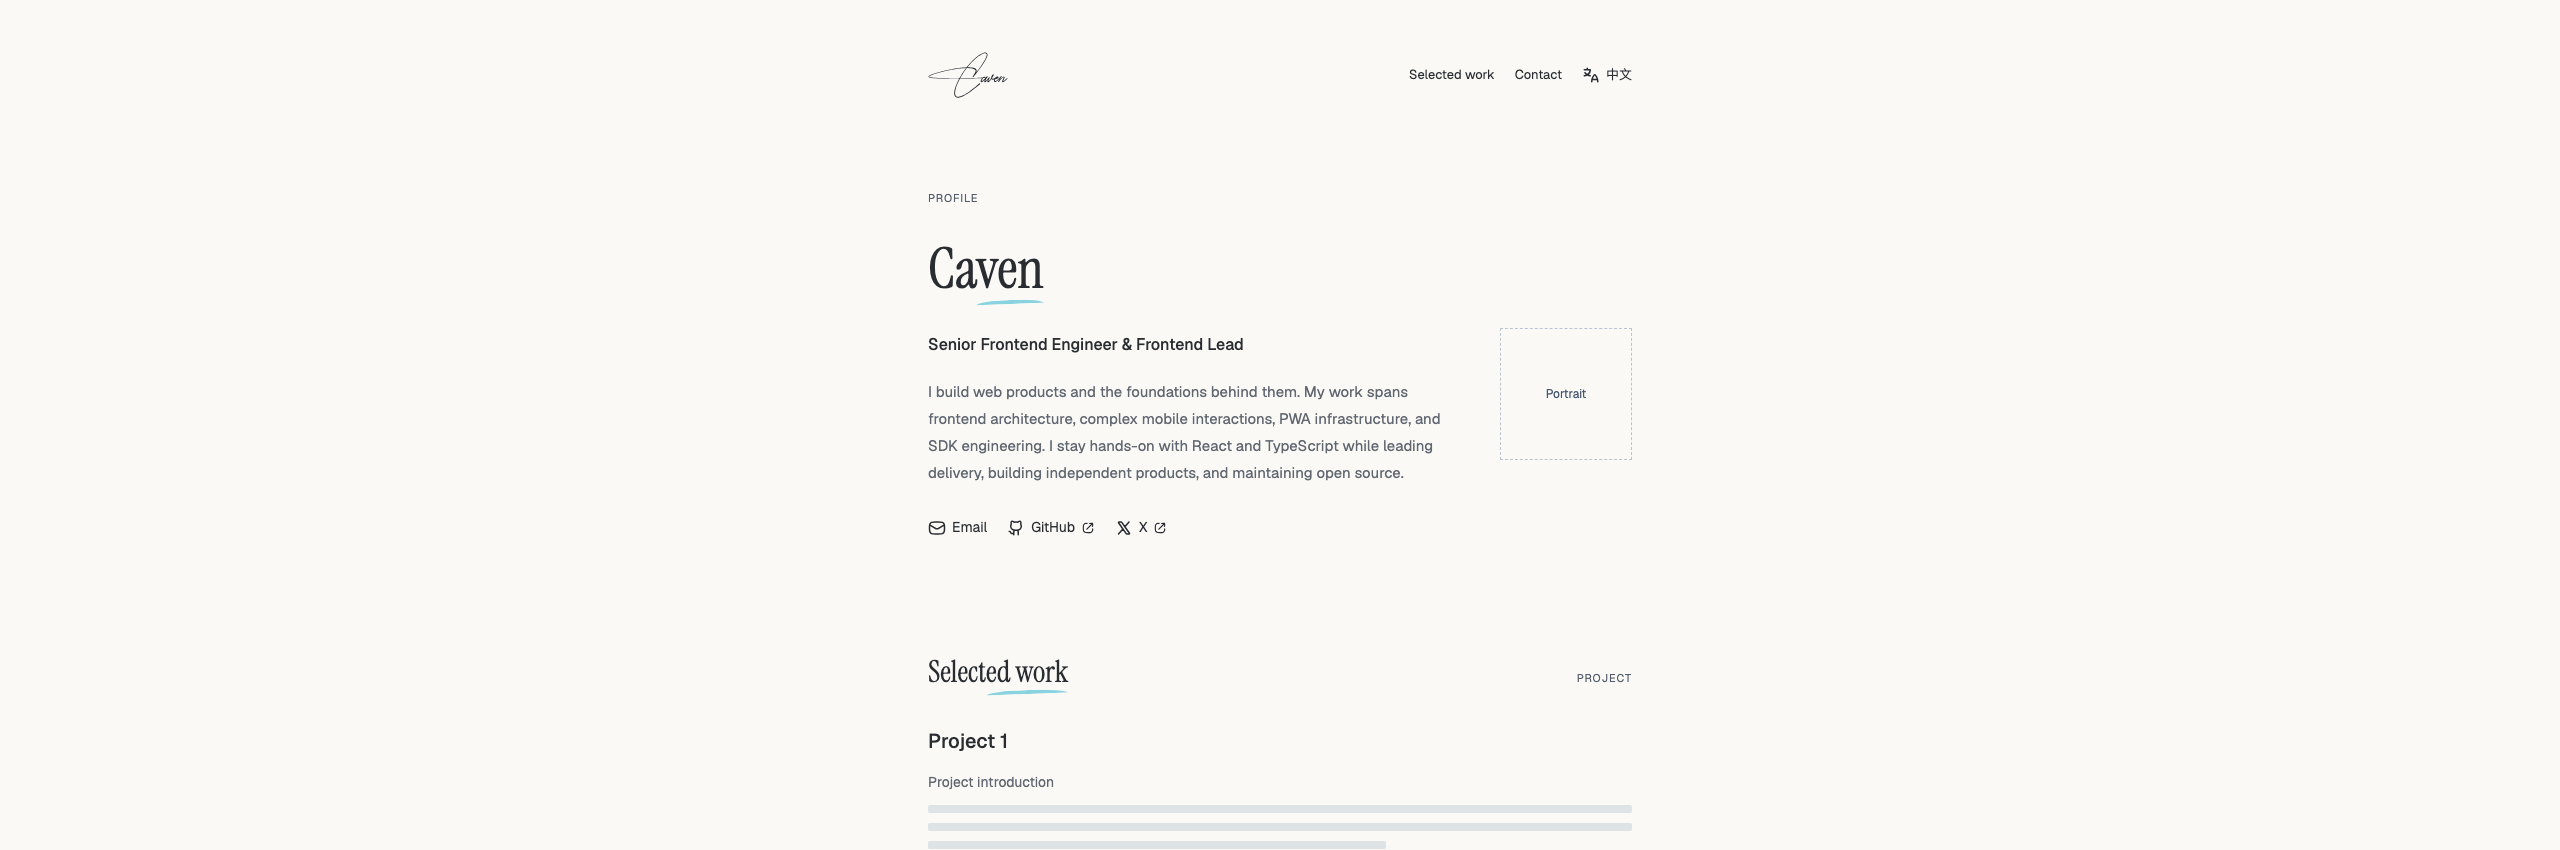
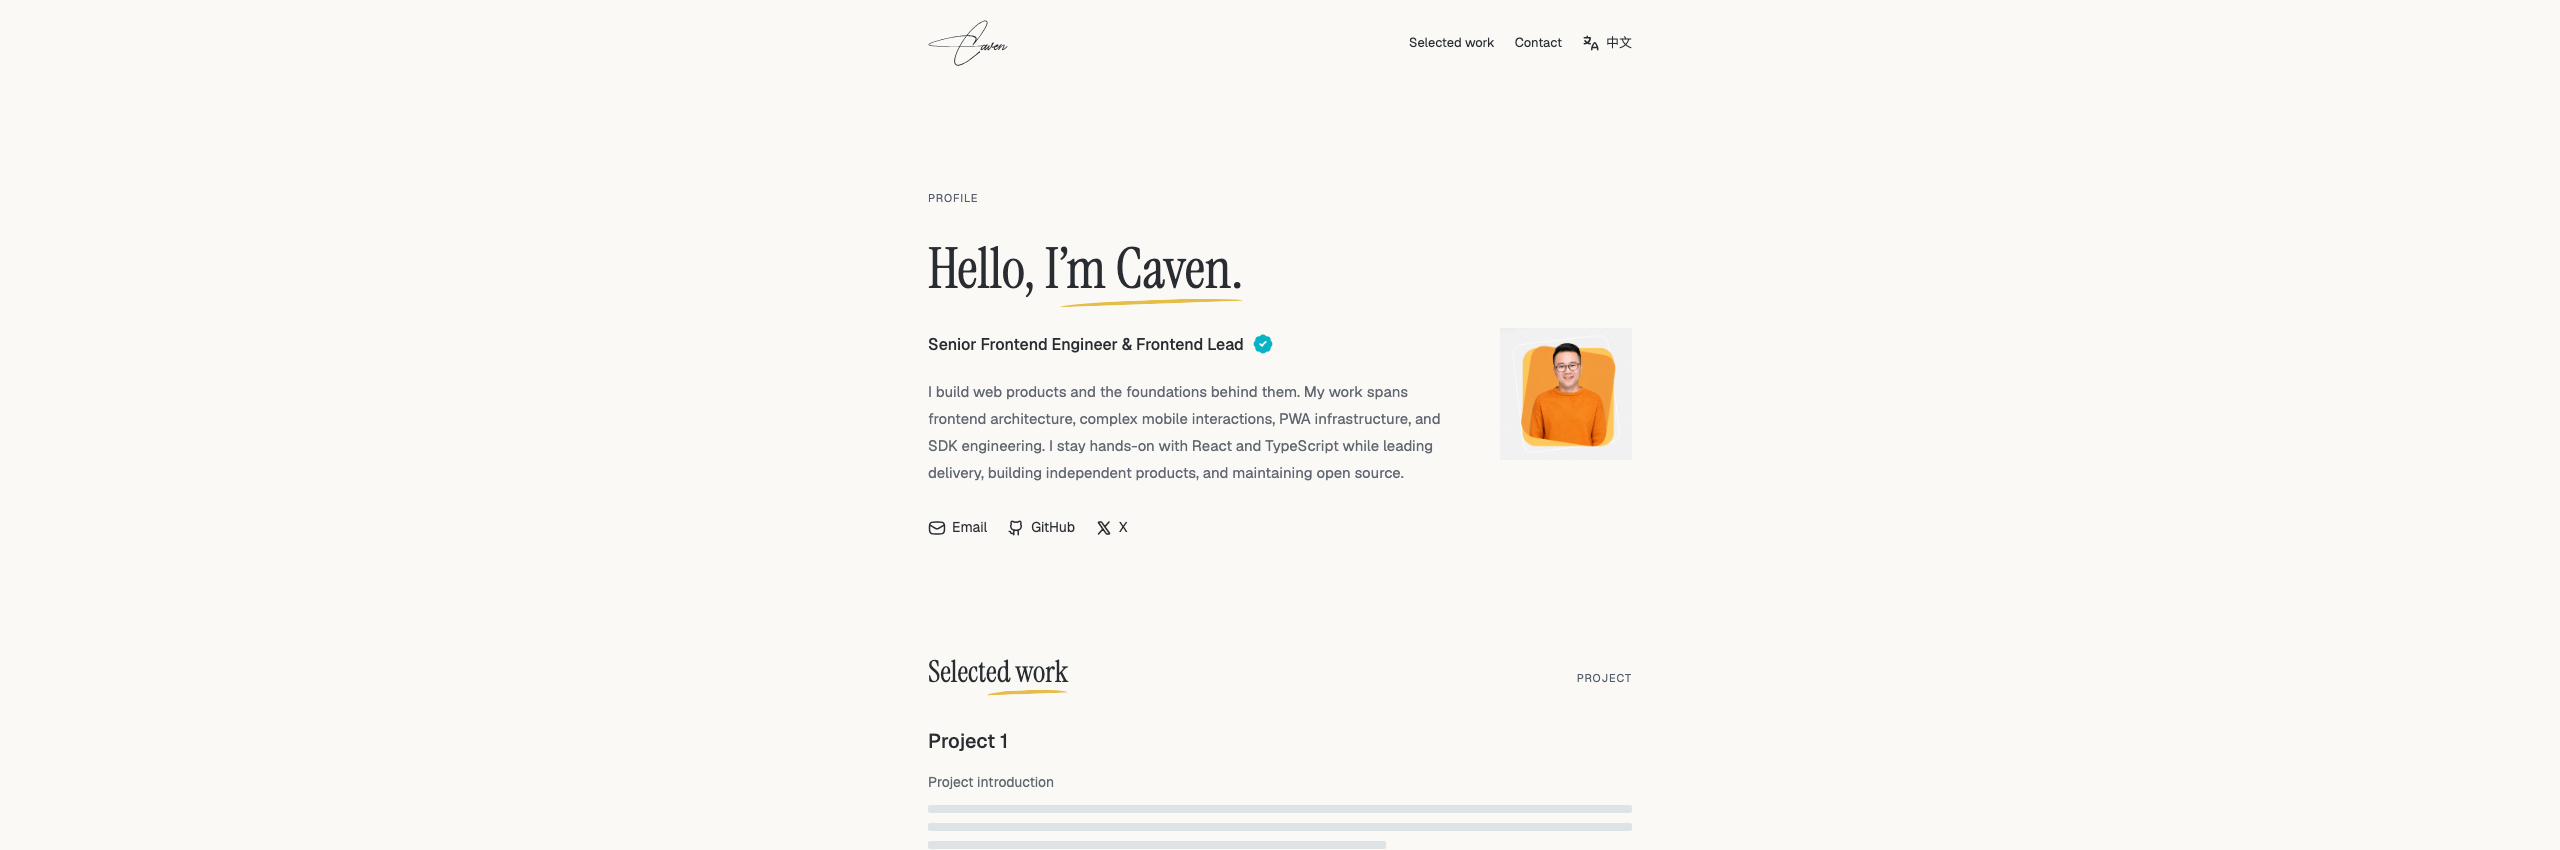
feat: refresh profile greeting and warm accent styling

diff --git a/src/styles/global.css b/src/styles/global.css
@@ -2,6 +2,7 @@
 
 :root {
   color-scheme: light;
+  --accent: #8a6500;
   font-family: "Geist", "PingFang SC", "Microsoft YaHei", sans-serif;
   color: #292d32;
   background: #faf9f6;
@@ -85,7 +86,7 @@ h3 {
   display: grid;
   place-items: center;
   aspect-ratio: 1;
-  border: 1px dashed #b9c4d2;
+  object-fit: contain;
   color: #46566e;
   font-size: 12px;
 }
@@ -211,7 +212,7 @@ h3 {
   background: #292d3208;
 }
 .experience-details summary:focus-visible {
-  outline: 2px solid #3b64a2;
+  outline: 2px solid var(--accent);
   outline-offset: 4px;
 }
 .role-heading {
@@ -297,7 +298,7 @@ h3 {
   right: 0;
   width: 58%;
   height: 8px;
-  border-top: 4px solid #89d2df;
+  border-top: 4px solid #e5bd48;
   border-radius: 50%;
   transform: rotate(-2deg);
 }
@@ -479,12 +480,12 @@ a {
   text-decoration: none;
 }
 a:focus-visible {
-  outline: 2px solid #3b64a2;
+  outline: 2px solid var(--accent);
   outline-offset: 4px;
   border-radius: 3px;
 }
 a:hover {
-  color: #315b97;
+  color: var(--accent);
   text-decoration: underline;
   text-underline-offset: 4px;
 }
@@ -565,5 +566,39 @@ a:hover {
   }
   .nav-links {
     gap: 4px 12px;
+  }
+}
+
+.site-header {
+  position: sticky;
+  top: 0;
+  z-index: 10;
+  width: min(100% - 48px, 768px);
+  margin-inline: auto;
+  background: #faf9f6f2;
+  backdrop-filter: blur(12px);
+}
+html {
+  scroll-padding-top: 120px;
+}
+.profile-badge {
+  display: inline-block;
+  width: 22px;
+  height: 22px;
+  margin-left: 4px;
+  vertical-align: -5px;
+  color: #08b2c5;
+}
+@media (max-width: 640px) {
+  .site-header {
+    width: calc(100% - 32px);
+  }
+}
+@media (max-width: 640px) {
+  .nav-links {
+    gap: 8px 12px;
+  }
+  html {
+    scroll-padding-top: 160px;
   }
 }

diff --git a/tests/home.test.ts b/tests/home.test.ts
@@ -7,7 +7,7 @@ test("homepage presents the seven layout regions in reading order without overfl
   expect(response?.status()).toBe(200);
   const regions = [
     page.getByRole("navigation", { name: "Navigation" }),
-    page.getByRole("region", { name: "Caven", exact: true }),
+    page.getByRole("region", { name: "Hello, I’m Caven.", exact: true }),
     page.getByRole("region", { name: "Selected work", exact: true }),
     page.getByRole("region", { name: "Experience", exact: true }),
     page.getByRole("region", { name: "Tech stack", exact: true }),
@@ -25,7 +25,7 @@ test("homepage presents the seven layout regions in reading order without overfl
     expect(box.x + box.width).toBeLessThanOrEqual(page.viewportSize()!.width);
     previousBottom = box.y + box.height;
   }
-  await expect(page.getByRole("heading", { name: "Caven", exact: true })).toBeVisible();
+  await expect(page.getByRole("heading", { name: "Hello, I’m Caven.", exact: true })).toBeVisible();
   await expect(page.getByRole("article")).toHaveCount(3);
   expect(await page.evaluate(() => document.documentElement.scrollWidth <= window.innerWidth)).toBe(
     true,
@@ -153,7 +153,7 @@ test("signature crossings do not reveal later strokes", async ({ browser }) => {
       background: "#faf9f6",
       // Cover fractional crop edges as well as the SVG box.
       boxShadow: "0 0 0 2px #faf9f6",
-      zIndex: "1",
+      zIndex: "100",
     });
   });
   for (const time of [700, 1100]) {

diff --git a/src/data/home.ts b/src/data/home.ts
@@ -11,7 +11,7 @@ export const projectIds = ["pwarelay", "lemon-squeezy-sdk", "online-arbitrage-to
 export const home = {
   en: {
     lang: "en",
-    name: "Caven",
+    greeting: "Hello, I’m Caven.",
     role: "Senior Frontend Engineer & Frontend Lead",
     title: "Caven — Senior Frontend Engineer & Frontend Lead",
     intro:
@@ -25,7 +25,7 @@ export const home = {
     switchPath: "/zh/",
     switchLang: "zh-CN",
     profile: "Profile",
-    portrait: "Portrait",
+    portrait: "Portrait of Caven",
     email: "Email",
     project: "Project",
     projectIntro: "Project introduction",
@@ -57,7 +57,7 @@ export const home = {
   },
   zh: {
     lang: "zh-CN",
-    name: "丁强 / Caven",
+    greeting: "你好，我是丁强。",
     role: "高级前端工程师 · 前端技术负责人",
     title: "丁强 Caven — 高级前端工程师 · 前端技术负责人",
     intro:
@@ -71,7 +71,7 @@ export const home = {
     switchPath: "/",
     switchLang: "en",
     profile: "关于我",
-    portrait: "头像",
+    portrait: "丁强的照片",
     email: "邮件",
     project: "项目",
     projectIntro: "项目简介",

diff --git a/tests/identity.test.ts b/tests/identity.test.ts
@@ -7,7 +7,7 @@ for (const locale of ["en", "zh"] as const) {
     for (let visit = 0; visit < 2; visit++) {
       await expect(page.locator("html")).toHaveAttribute("lang", locale === "en" ? "en" : "zh-CN");
       await expect(page.getByRole("heading", { level: 1 })).toHaveText(
-        locale === "en" ? "Caven" : "丁强 / Caven",
+        locale === "en" ? "Hello, I’m Caven." : "你好，我是丁强。",
       );
       await expect(
         page.getByText(
@@ -148,4 +148,14 @@ test("navigation and footer signatures animate independently, with X beside GitH
   await expect(x).toHaveCount(2);
   for (const link of await x.all())
     await expect(link).toHaveAttribute("href", "https://x.com/cavenasdev");
+});
+
+test("navigation stays at the top when reading the footer", async ({ page }) => {
+  await page.goto("/");
+  const navigation = page.getByRole("navigation");
+  await page.getByRole("contentinfo").scrollIntoViewIfNeeded();
+  await expect(navigation).toBeInViewport();
+  const bounds = await navigation.boundingBox();
+  expect(bounds?.y).toBeGreaterThanOrEqual(0);
+  expect(bounds?.y).toBeLessThan(40);
 });

diff --git a/docs/identity-review.md b/docs/identity-review.md
@@ -13,8 +13,9 @@ frontend architecture, mobile interaction, PWA, SDK, React/TypeScript, team deli
 independent product and open-source experience without adding dates, metrics, or
 employer/project claims. The English and Chinese versions have equivalent meaning.
 The source document was only read, and is not included in this repository.
-The low-resolution extracted portrait has been removed at Caven's request. A square,
-unfilled placeholder reserves its space until a high-resolution PNG is supplied.
+The low-resolution extracted portrait has been replaced by Caven's supplied 1254px
+PNG. It is served unchanged, without a circular background or cropping. Its RGB
+source contains a visible checkerboard and no alpha channel.
 
 Project, experience, toolkit and additional-work details remain localized
 placeholders for #5–7. Their real content and a public resume download are outside
@@ -25,7 +26,7 @@ with JavaScript, and falls back to native locale navigation without JavaScript.
 
 The production build was rendered in Chromium at desktop and phone sizes.
 The following captures were visually inspected for mixed-script typography,
-wrapping, portrait placeholder, whitespace, and footer composition:
+wrapping, portrait, whitespace, and footer composition:
 
 - [English mobile, 390px](identity-evidence/en-mobile.png)
 - [Chinese mobile, 390px](identity-evidence/zh-mobile.png)
@@ -62,7 +63,7 @@ full browser suite on PRs and main. It uploads browser evidence and failure trac
 No deployment or domain configuration is included.
 
 Local result: formatting, lint and Astro/TypeScript checks passed (zero diagnostics);
-the full built-site suite passed **26/26** across desktop and mobile projects.
+the full built-site suite passed **28/28** across desktop and mobile projects.
 The retained signature snapshot is now captured at a fixed viewport origin, so
 font-driven subpixel page positioning cannot alter its crop. Both updated mobile
 baseline images were visually inspected; original contours are unchanged.
@@ -87,10 +88,24 @@ X be added after GitHub (`cavenasdev`), and the low-resolution portrait be
 replaced by a placeholder without a circular background. Both signatures use
 instance-specific SVG references and independent viewport observers. Reduced
 motion and no-JavaScript fallbacks remain. X appears in both contact rows.
-The portrait placeholder has a transparent background and a square dashed outline;
+That temporary placeholder was later replaced by the supplied PNG, as recorded above;
 the removed low-resolution file is no longer shipped.
 
 Both independent review axes found no new issues in these refinements. The
 navigation/independent-animation regression first failed on the old text wordmark
-and passed after the change. The final full suite passed 26/26 and static checks
+and passed after the change. The final full suite passed 28/28 and static checks
 passed with zero diagnostics. Signature contour baselines remain unchanged.
+
+## Greeting and accent refinement
+
+The homepage greeting is “Hello, I’m Caven.” / “你好，我是丁强。”. All hand-drawn
+heading underlines use warm yellow (#e5bd48), while link hover/focus uses dark gold
+(#8a6500) for contrast against warm white. The decorative blue badge is exported
+from Pikaicons `verification-check`, Solid variant `30877:4242`; it does not convey
+an independent certification claim. Social contact links no longer show external
+link indicators. Navigation sticks to the viewport top, including over the footer,
+with anchor offsets to keep destinations clear of it.
+
+Location and real-time clock placement is planned below the introduction contacts,
+but is not published until Caven supplies the city/timezone. No location is inferred
+from the development environment.

diff --git a/src/assets/icons/README.md b/src/assets/icons/README.md
@@ -1,18 +1,19 @@
 # Pikaicons preview assets
 
 Source: user-provided Pikaicons Figma file `ZlJMcVk1fkmBTHh7uSNiuH`, Icons page `0:1`.
-All icons use the Stroke variant. Exported on 2026-09-14.
+Icons use the Stroke variant except the Solid profile badge. Exported on 2026-09-14.
 
-| Asset             | Figma node  |
-| ----------------- | ----------- |
-| translate.svg     | 30877:4196  |
-| external-link.svg | 24187:11211 |
-| chevron-down.svg  | 24187:11171 |
-| globe.svg         | 24187:11486 |
-| code.svg          | 30877:6650  |
-| email.svg         | 24187:10862 |
-| github.svg        | 30877:8170  |
-| briefcase.svg     | 24187:9463  |
-| x.svg             | 24187:11543 |
+| Asset                  | Figma node  |
+| ---------------------- | ----------- |
+| translate.svg          | 30877:4196  |
+| external-link.svg      | 24187:11211 |
+| chevron-down.svg       | 24187:11171 |
+| globe.svg              | 24187:11486 |
+| code.svg               | 30877:6650  |
+| email.svg              | 24187:10862 |
+| github.svg             | 30877:8170  |
+| briefcase.svg          | 24187:9463  |
+| x.svg                  | 24187:11543 |
+| verification-check.svg | 30877:4242  |
 
-Only the Style=Stroke group is retained from each export, preserving its paths and 24×24 viewBox. Exported backgrounds and IDs are removed; the foreground color uses currentColor. Chevron-down rotates 180 degrees for the open state. The X icon comes from `social/x-com` (component set `27925:3168`).
+Only the chosen variant is retained from each export, preserving its paths and 24×24 viewBox. Exported backgrounds and IDs are removed; the foreground color uses currentColor. Chevron-down rotates 180 degrees for the open state. The X icon comes from `social/x-com` (component set `27925:3168`).

diff --git a/README.md b/README.md
@@ -106,7 +106,7 @@ preserves valid page fragments when JavaScript is available.
 
 Geist (400/500) and Instrument Serif (400) are bundled from pinned Fontsource
 packages, with local Chinese system fallbacks. They make no external font requests.
-Both packages include their SIL Open Font License. The portrait is a transparent square placeholder pending a user-provided high-resolution PNG. The source resume
+Both packages include their SIL Open Font License. The portrait uses the user-supplied 1254px PNG without cropping or a circular background. Its checkerboard is baked into the RGB source; a truly transparent replacement remains possible. The source resume
 and phone number are not distributed. The outlined signature and Tianchi candidate
 are reused from #3. `noindex` remains until the discovery/release slice (#9).
 
